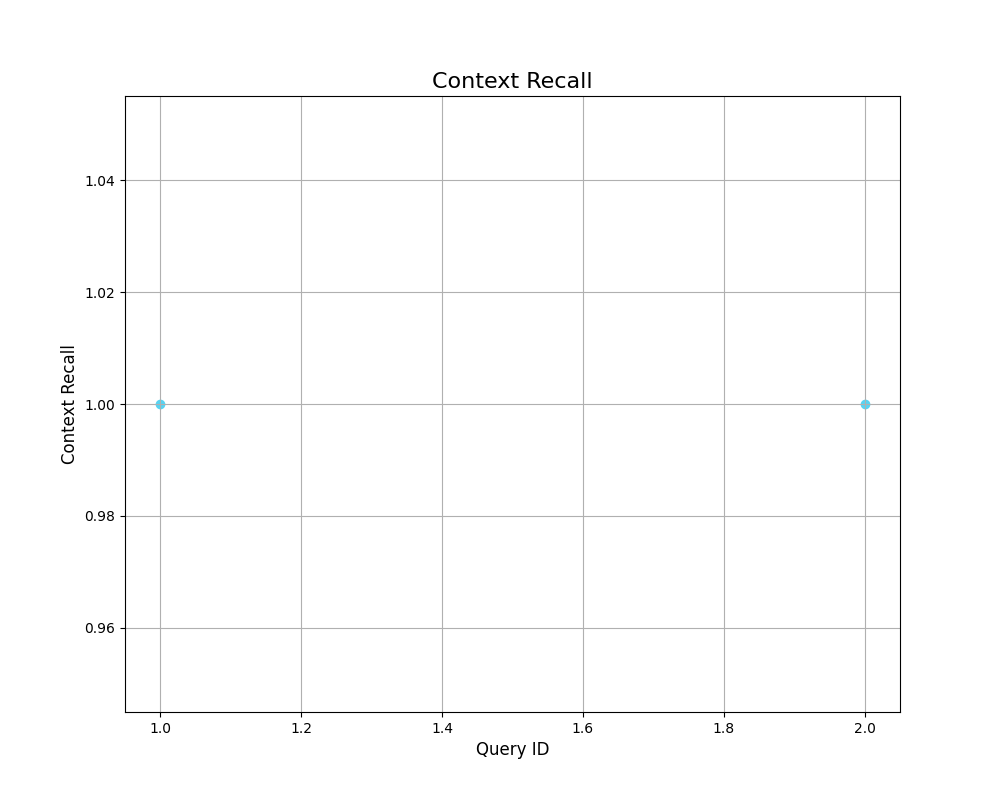
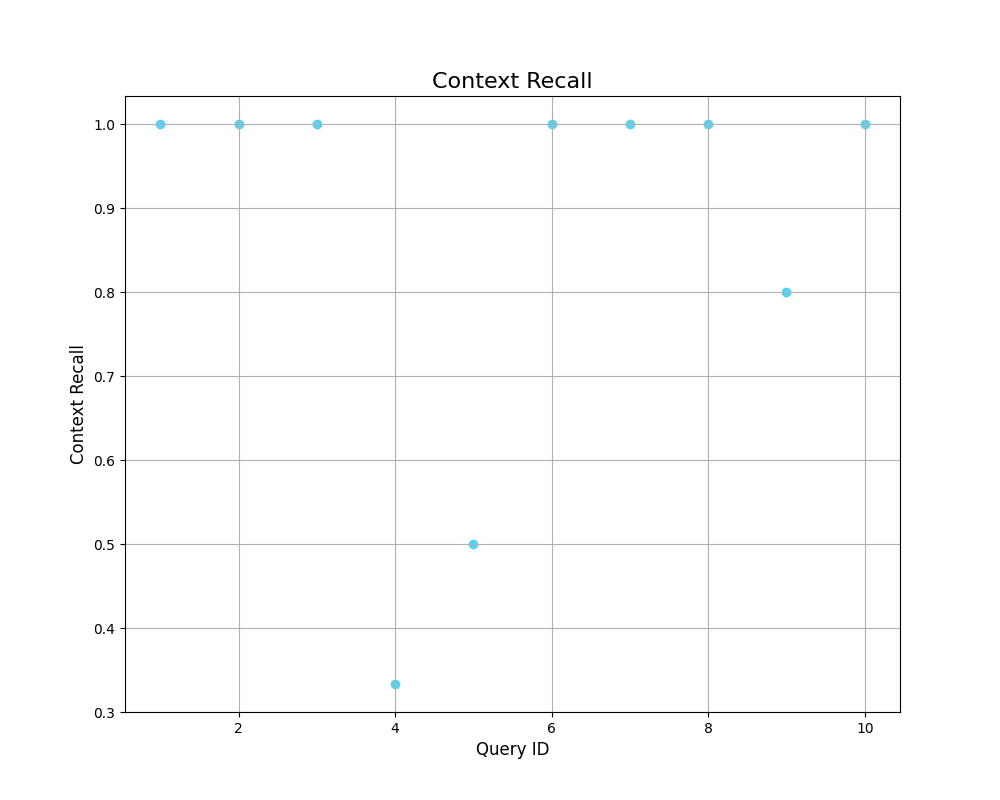
10 queries eval

diff --git a/src/main_rag_eval.py b/src/main_rag_eval.py
@@ -24,7 +24,7 @@ def main() -> None:
     # Create Raptor data (make cluster summary, process and store in vector database)
     ragas_evaluation = RagasEval(
         hg_token=str(os.getenv('HG_API_KEY')),
-        dataset_name="20240830133239"
+        dataset_name="20240902203907"
         )
     ragas_evaluation.run(results_file_path="./data/rag evaluation/results/results.csv", get_visual_reports=True)
     
